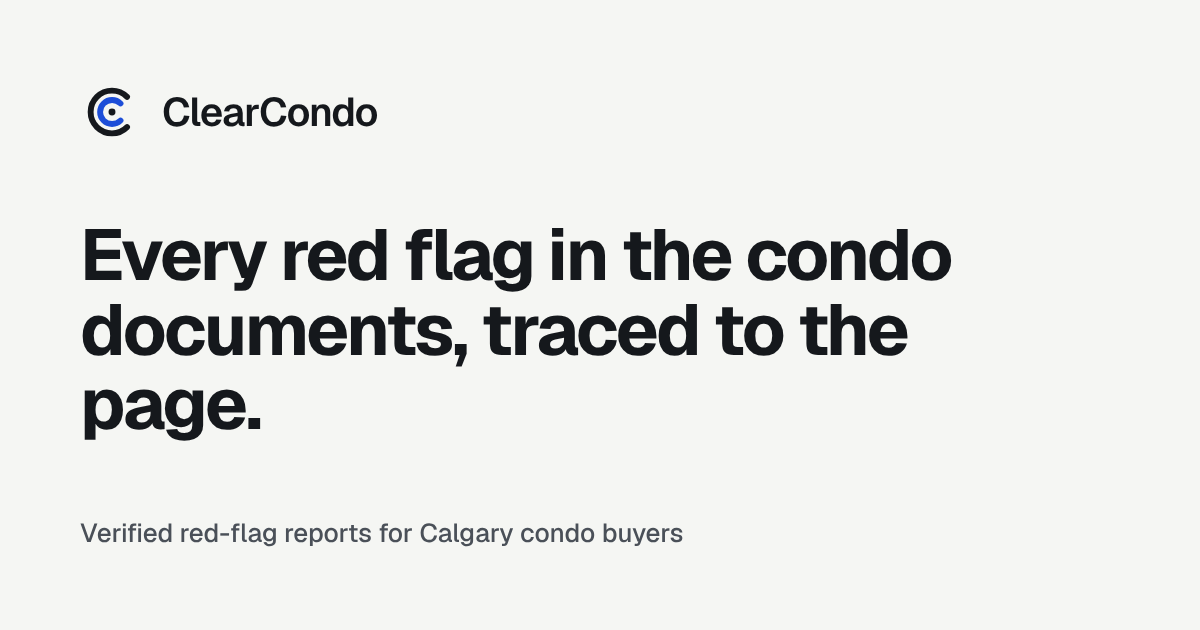
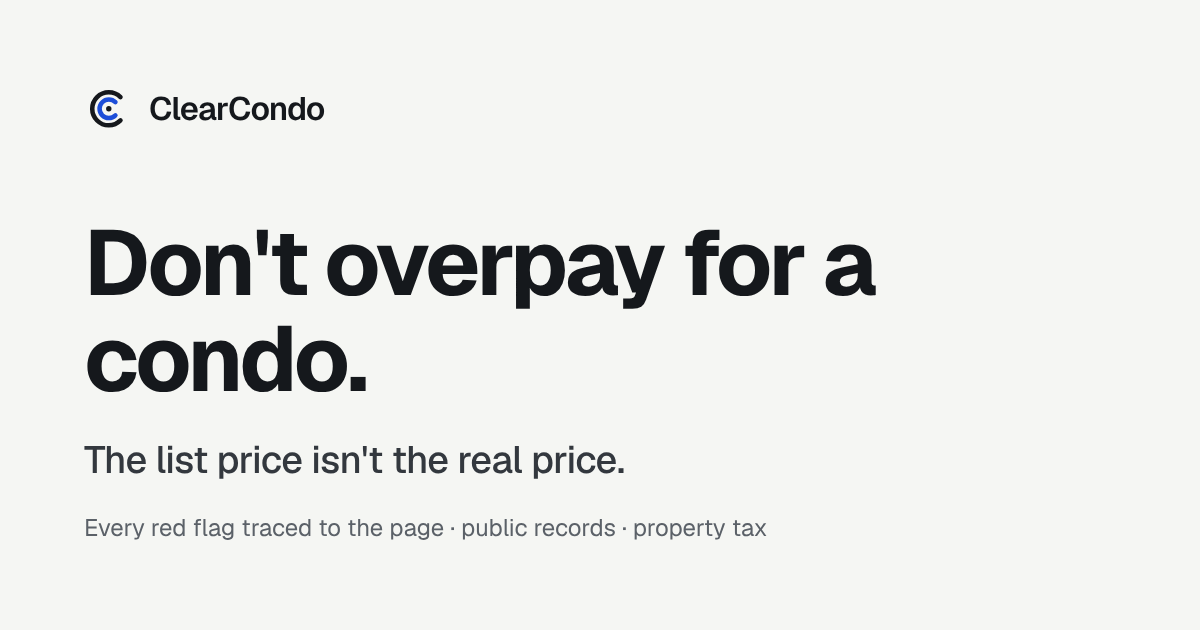
Landing: tell the 'real price' story end to end
- New 'The real price has three parts' section: what the documents
  hide (sample report), what the public record shows (Calgary lookup),
  what you'll pay every year (property tax & appeals, preview).
- Steps now: look up the building, add the documents, get the real
  price. Memory section framed as one record of what a building costs.
- Vision says the after-purchase work has started (tax & appeal
  history on Calgary building pages), with a link; close becomes 'See
  the real price before you sign.' with both entry points.
- Page title/description, share image and its alt text updated to
  'Don't overpay for a condo'; README opening line to match.
- e2e: landing assertions for the new copy; fix the /calgary heading
  assertion broken by the lookup redesign.

Claude-Session: https://claude.ai/code/session_01LA7JEBiPkP7GPe25vYH6YV

Changed region(s): [[0.0617, 0.3619, 0.8017, 0.754], [0.0617, 0.8143, 0.6475, 0.8746], [0.0617, 0.1206, 0.3083, 0.2111]]

diff --git a/app/page.tsx b/app/page.tsx
@@ -10,9 +10,32 @@ import MemoryRecord, { recordRows } from "@/components/MemoryRecord";
 import Reveal from "@/components/Reveal";
 
 const STEPS = [
-  ["Upload the package", "The PDFs from your seller or property manager: minutes, reserve study, bylaws."],
-  ["We check every page", "Each risk is matched to the exact sentence that supports it."],
-  ["Get the report", "Online, or as a PDF to take to your lawyer before conditions come off."],
+  ["Look up the building", "Free for any Calgary condo, no sign-in: what it's worth, its major work, the tax that comes with it."],
+  ["Add the documents", "The PDFs from your seller or property manager: minutes, reserve study, bylaws."],
+  ["Get the real price", "Every red flag priced per unit and traced to its page, online or as a PDF for your lawyer, before conditions come off."],
+];
+
+/** The three parts of what a condo really costs, each with where to see it. */
+const PRICE_PARTS: { title: string; body: string; href: string; cta: string; preview?: boolean }[] = [
+  {
+    title: "What the documents hide",
+    body: "Special assessments, reserve shortfalls, lawsuits and insurance deductibles, priced per unit and quoted from the page they came from.",
+    href: "/demo",
+    cta: "See a sample report",
+  },
+  {
+    title: "What the public record shows",
+    body: "The building's assessed value against similar buildings and its major roof, envelope and parkade permits, from City of Calgary open data.",
+    href: "/calgary",
+    cta: "Look up a Calgary condo",
+  },
+  {
+    title: "What you'll pay every year",
+    body: "Property tax on a typical unit, and whether the building's owners have appealed their assessments before.",
+    href: "/calgary",
+    cta: "See tax & appeals",
+    preview: true,
+  },
 ];
 
 /** The sample building's record across its two reviews (sample data). */
@@ -110,6 +133,40 @@ export default function LandingPage() {
         </div>
       </section>
 
+      {/* The real price */}
+      <section className="border-b border-line">
+        <div className="mx-auto max-w-6xl px-4 sm:px-6 py-20 sm:py-24">
+          <SectionHead
+            title="The real price has three parts."
+            body="The number on the listing, what the documents say you'll owe, and what you'll keep paying after you move in. ClearCondo shows all three."
+          />
+          <div className="grid grid-cols-[minmax(0,1fr)] md:grid-cols-3 gap-4">
+            {PRICE_PARTS.map((p, i) => (
+              <Reveal key={p.title} delay={i * 100}>
+                <Link
+                  href={p.href}
+                  className="group flex h-full flex-col rounded-[14px] border border-line bg-white p-6 hover:border-ink transition-colors no-underline"
+                >
+                  <span className="flex items-center gap-2">
+                    <span className="data-label text-subtle">0{i + 1}</span>
+                    {p.preview && (
+                      <span className="rounded-md bg-ink text-white px-1.5 py-px text-[10px] font-semibold uppercase tracking-wide">
+                        Preview
+                      </span>
+                    )}
+                  </span>
+                  <h3 className="mt-3 text-xl font-bold tracking-[-0.01em] text-ink">{p.title}</h3>
+                  <p className="mt-2 text-muted leading-relaxed flex-1">{p.body}</p>
+                  <span className="mt-5 inline-flex items-center gap-2 font-semibold text-ink">
+                    {p.cta} <Arrow />
+                  </span>
+                </Link>
+              </Reveal>
+            ))}
+          </div>
+        </div>
+      </section>
+
       {/* Verification */}
       <section className="bg-surface border-b border-line">
         <div className="mx-auto max-w-6xl px-4 sm:px-6 py-20 sm:py-24">
@@ -125,7 +182,7 @@ export default function LandingPage() {
       <section className="mx-auto max-w-6xl px-4 sm:px-6 py-20 sm:py-24">
         <SectionHead
           title="The building remembers."
-          body="Same corporation number, same building. Each new package is checked against what we already verified, and facts that changed are dated, not overwritten."
+          body="Every building keeps one record of what it really costs. Each new package is checked against what we already verified, and facts that changed are dated, not overwritten."
         />
         <MemoryRecord {...record} />
         <Reveal className="mt-5">
@@ -158,8 +215,13 @@ export default function LandingPage() {
         <div className="mx-auto max-w-6xl px-4 sm:px-6 py-20 sm:py-24">
           <SectionHead
             title="Buying is the first bill. Owning is the rest."
-            body="ClearCondo starts with the purchase — what a condo will really cost you before you own it. Next we're building the same check for property tax assessments: if a city overvalues your home, we flag it and build the appeal. One record of what your property actually costs you."
+            body="ClearCondo starts with the purchase: what a condo will really cost you before you own it. What comes after has started too: every Calgary building page already shows its property tax and assessment appeal history. Next, the same check for your own assessment: if the City overvalues your home, we flag it and help you build the appeal. One record of what your property actually costs you."
           />
+          <Reveal>
+            <Link href="/calgary" className={primaryBtn}>
+              See a building&apos;s tax &amp; appeals <Arrow />
+            </Link>
+          </Reveal>
         </div>
       </section>
 
@@ -168,7 +230,7 @@ export default function LandingPage() {
         <div className="mx-auto max-w-6xl px-4 sm:px-6 py-16 flex flex-wrap items-end justify-between gap-8">
           <div className="max-w-xl">
             <h2 className="text-3xl sm:text-4xl font-bold tracking-[-0.025em] leading-tight">
-              Know what you&apos;re buying into.
+              See the real price before you sign.
             </h2>
             <p className="mt-3 text-[#c3cad4]">
               PDFs are read in memory and never stored.{" "}
@@ -177,12 +239,20 @@ export default function LandingPage() {
               </Link>
             </p>
           </div>
-          <Link
-            href="/app"
-            className="btn-lift inline-flex items-center gap-2.5 rounded-[10px] bg-white text-ink font-semibold px-6 min-h-12"
-          >
-            Take me to dashboard <Arrow />
-          </Link>
+          <div className="flex flex-wrap gap-3">
+            <Link
+              href="/calgary"
+              className="inline-flex items-center rounded-[10px] border border-white/30 hover:border-white text-white font-semibold px-6 min-h-12 transition-colors"
+            >
+              Look up a Calgary condo
+            </Link>
+            <Link
+              href="/app"
+              className="btn-lift inline-flex items-center gap-2.5 rounded-[10px] bg-white text-ink font-semibold px-6 min-h-12"
+            >
+              Take me to dashboard <Arrow />
+            </Link>
+          </div>
         </div>
       </section>
     </div>

diff --git a/e2e/e2e-18-service.spec.ts b/e2e/e2e-18-service.spec.ts
@@ -90,7 +90,9 @@ test("landing speaks to buyers and links the dashboard", async ({
   page,
 }) => {
   await page.goto(`${BASE}/`);
-  await expect(page.getByText("For Calgary condo buyers")).toBeVisible();
+  await expect(page.getByText("For condo buyers")).toBeVisible();
+  await expect(page.getByRole("heading", { level: 1 })).toContainText("Don't overpay for a condo");
+  await expect(page.getByRole("heading", { name: "The real price has three parts." })).toBeVisible();
   await expect(page.getByText(/realtors/i)).toHaveCount(0);
   await expect(
     page.getByRole("heading", { name: /traced to the page/ })
@@ -104,6 +106,6 @@ test("landing speaks to buyers and links the dashboard", async ({
 test("Calgary lookup renders with no sign-in", async ({ page }) => {
   const res = await page.goto(`${BASE}/calgary`);
   expect(res?.status()).toBe(200);
-  await expect(page.getByRole("heading", { level: 1 })).toContainText("Calgary condo");
+  await expect(page.getByRole("heading", { level: 1 })).toContainText("What will this condo really cost you?");
   await expect(page.getByRole("combobox", { name: /Street address or condo plan number/ })).toBeVisible();
 });

diff --git a/app/layout.tsx b/app/layout.tsx
@@ -18,9 +18,9 @@ const geistMono = Geist_Mono({
 export const metadata: Metadata = {
   // Absolute base for the social preview images (opengraph-image.png).
   metadataBase: new URL(process.env.NEXT_PUBLIC_SITE_URL ?? "https://clearcondo.vercel.app"),
-  title: "ClearCondo — Know what you're buying before you buy it",
+  title: "ClearCondo — Don't overpay for a condo",
   description:
-    "ClearCondo reads a condo's document stack — reserve fund study, bylaws, minutes, information statements — and flags the expensive surprises before you buy.",
+    "The list price isn't the real price. ClearCondo prices what's buried in a condo's documents — special assessments, thin reserves, lawsuits — every claim traced to its page, plus the building's public record and property tax.",
 };
 
 const clerkKey = process.env.NEXT_PUBLIC_CLERK_PUBLISHABLE_KEY;

diff --git a/README.md b/README.md
@@ -1,10 +1,14 @@
 # ClearCondo
 
-**Know what you're buying before you buy it.** ClearCondo reads a condo's
-document stack — reserve fund study, bylaws, board/AGM minutes, information
-statements — and produces a red-flag report for buyers: severity-grouped
-flags, verbatim evidence quotes with source documents, dollar exposures, and
-questions to take to a realtor or lawyer.
+**Don't overpay for a condo.** The list price isn't the real price.
+ClearCondo reads a condo's document stack — reserve fund study, bylaws,
+board/AGM minutes, information statements — and prices what's buried in it:
+severity-grouped red flags, verbatim evidence quotes with source documents,
+dollar exposures, and questions to take to a realtor or lawyer. For Calgary
+buildings it adds the public record (assessed value against similar
+buildings, major permits) and a preview of what owning costs every year
+(property tax and assessment appeal history), free and without sign-in at
+`/calgary`.
 
 Built for **Build North 2026** (Georgian). This is a real product, not a demo
 throwaway: per-report Stripe monetization (test mode), Clerk auth, and a
